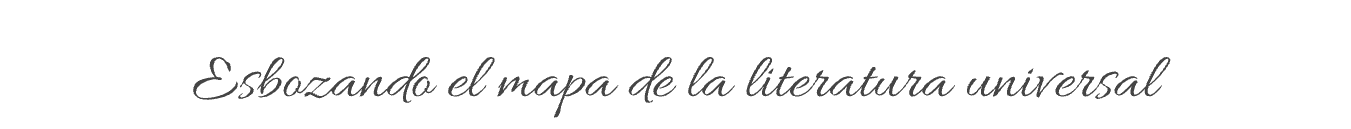
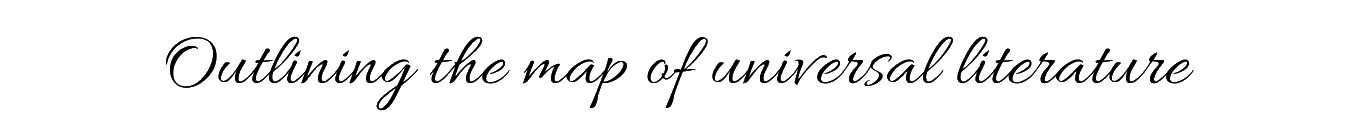
Update link to english and englishify

Changed region(s): [[0.1244, 0.2791, 0.9016, 0.8682], [0.4041, 0.8372, 0.4352, 0.8992]]

diff --git a/index.html b/index.html
@@ -51,6 +51,34 @@
         font-style: normal;
     }
 
+    .redirect_to_spanish {
+        position: absolute;
+        top: 10px;
+        right: 10px;
+        font-size: 18px;
+    }
+    .spanish-button {
+        color: black;
+        font-weight: bold;
+        position: relative;
+        cursor: pointer;
+        display: inline-block;
+        text-decoration: none;
+        background-color: transparent;
+    }
+    .spanish-button::after {
+        content: '';
+        position: absolute;
+        bottom: -2px; /* Adjust position if needed */
+        left: 0;
+        width: 0;
+        height: 1px;
+        background-color: black;
+        transition: width 0.3s ease;
+    }
+    .spanish-button:hover::after {
+        width: 100%;
+    }
     #flex-container {
         margin-top: 80px;
         display: flex;
@@ -285,7 +313,12 @@
     }
 
     @media screen and (max-width: 600px) {
-
+    .redirect_to_spanish {
+        position: absolute;
+        top: 10px;
+        right: 10px;
+        font-size: 9px;
+    }
     #reveal-button {
         z-index: 3;
         font-size: 14px;
@@ -359,6 +392,9 @@
 
 <body>
     <div class="main-container">
+        <div class="redirect_to_spanish">
+            <a href="https://theprojectcoem.co" class="spanish-button">Spanish</a>
+        </div>
         <div class="image-container-title">
             <img src="static/Coem.png" alt="Inverted Image" class="inverted-image">
         </div>
